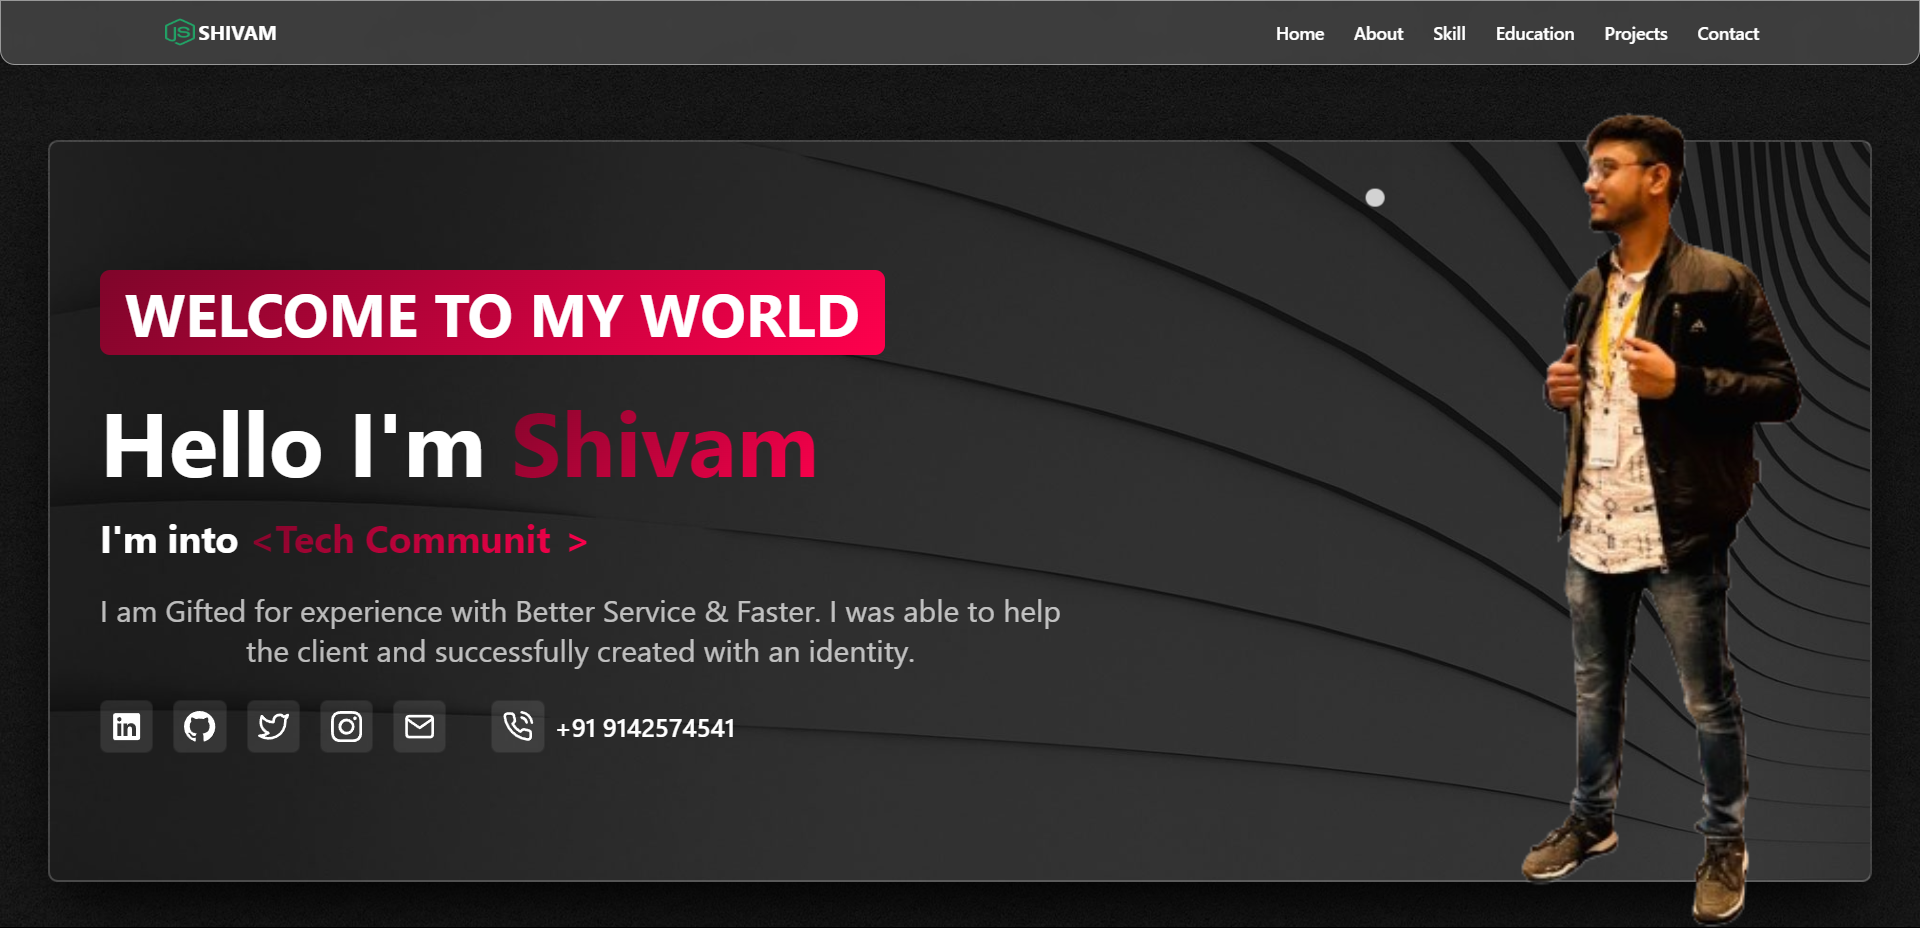
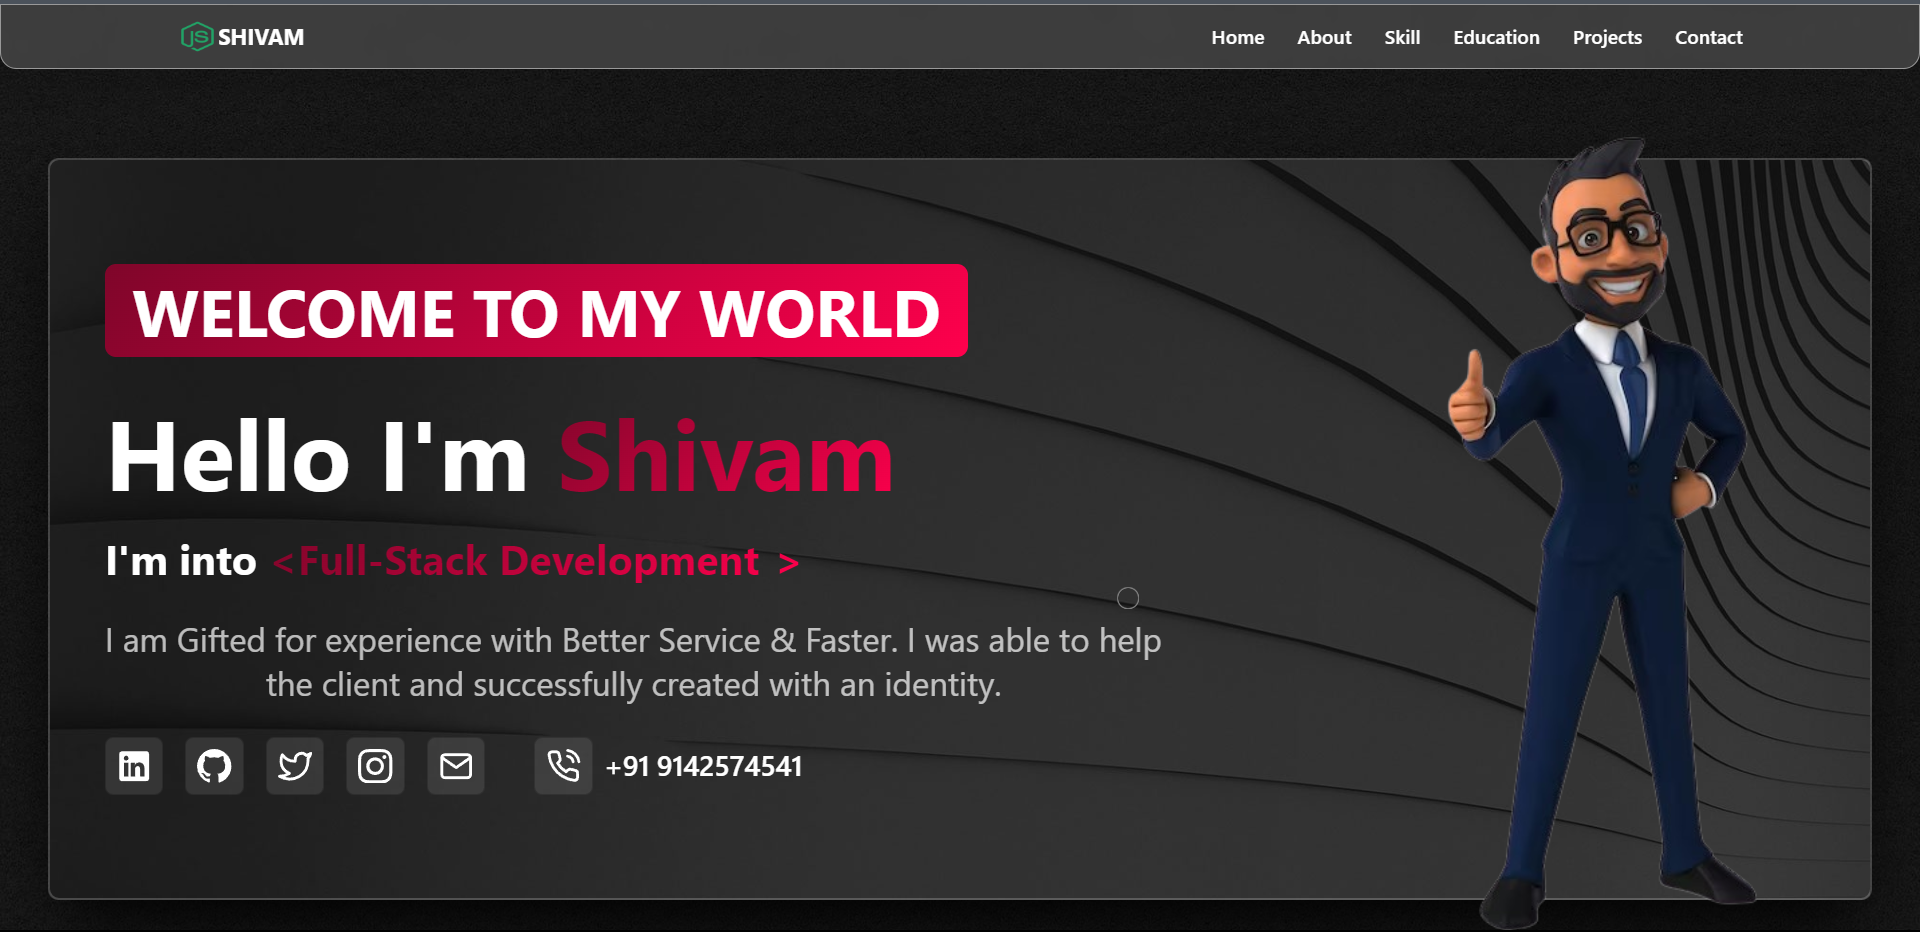
fixed bug

diff --git a/src/components/pages/Contact/Contact.jsx b/src/components/pages/Contact/Contact.jsx
@@ -66,7 +66,7 @@ const Contact = () => {
           <div className=" flex justify-center items-center xl:w-auto lg:w-auto md:w-full w-full">
             <h1
               className="heading text-center  text-white lg:text-[7vh] md:text-[7vh] text-3xl rounded-lg tracking-widest"
-              style={{ paddingBottom: "20px" }}
+              
             >
               CONTACT ME
             </h1>
@@ -75,28 +75,24 @@ const Contact = () => {
             How can I <span className="text-gradient">Help</span> you?
           </div>
           <div className="text-white/70 text-xl font-medium">
-            Lorem ipsum dolor sit amet consectetur, adipisicing elit. Qui,
-            ipsam.
+            Have a project in mind? Let's chat! Feel free to reach out for any inquiries or collaborations.
           </div>
           <div className="text-white/40 text-base ">
-            Lorem ipsum dolor sit amet consectetur, Lorem ipsum dolor sit amet
-            consectetur, adipisicing elit. Culpa, repudiandae. adipisicing elit.
-            Qui, ipsam.
-          </div>
+          Expect quick responses and dedicated support once you reach out. I'm committed to transforming ideas into impactful solutions through effective collaboration. Let's get started          </div>
           <div>
             <div className="text-white/40 flex justify-start items-center  border-b border-white/40 w-full pb-2 xl:text-lg lg:text-lg md:text-lg text-base">
-              <div className="">ADDRESS</div>
+              <div className="">ADDRESS&nbsp;</div>
               <div className="text-white/90">
                 {" "}
                 :&nbsp;&nbsp; DHANBAD, JHARKHAND
               </div>
             </div>
             <div className="text-white/40 flex justify-start items-center  border-b border-white/40 w-full pb-2 xl:text-lg lg:text-lg md:text-lg text-base">
-              <div className="">PHONE</div>
+              <div className="">PHONE &nbsp;</div>
               <div className="text-white/90"> :&nbsp; +91 9142574541</div>
             </div>
-            <div className="text-white/40 flex justify-start  items-center border-b border-white/40 w-full pb-2 xl:text-lg lg:text-lg md:text-lg text-base">
-              <div className="">EMAIL</div>
+            <div className="text-white/40 flex justify-start  items-center border-b border-white/40 w-full pb-2 xl:text-lg lg:text-lg md:text-lg text-[13.5px]">
+              <div className="">EMAIL&nbsp;</div>
               <div className="text-white/90">
                 {" "}
                 :&nbsp;&nbsp; shivamshaw9005@gmail.com
@@ -110,7 +106,7 @@ const Contact = () => {
           whileInView={{ x: 0, transition: { duration: 0.5 } }}
           className=" xl:px-8 lg:px-8 md:px-4 px-4 py-4 border-2 xl:w-[50%] lg:w-[50%] md:w-full w-full border-black/70 bg-[#242323] shadow-2xl shadow-black rounded-lg "
         >
-          <form className=" flex flex-col gap-3">
+          <form className=" flex flex-col gap-3 w-full">
             <div className="text-3xl font-semibold pb-8 text-white">
               GET FREE QOUTE NOW!
             </div>
@@ -118,7 +114,7 @@ const Contact = () => {
               <MdPerson className="text-black" />
               <input
                 type="text"
-                className="border-none bg-[#f1efef] py-2 font-semibold"
+                className="border-none bg-[#f1efef] py-2 font-semibold w-full"
                 placeholder="First name"
                 onChange={(e) => {
                   setName(e.target.value);
@@ -130,7 +126,7 @@ const Contact = () => {
               <MdPhone className="text-black" />
               <input
                 type="text"
-                className="border-none bg-[#f1efef] py-2 font-semibold"
+                className="border-none bg-[#f1efef] py-2 font-semibold w-full"
                 placeholder="Phone"
                 onChange={(e) => {
                   setPhone(e.target.value);
@@ -142,7 +138,7 @@ const Contact = () => {
               <MdMail className="text-black" />
               <input
                 type="text"
-                className="border-none bg-[#f1efef] py-2 font-semibold"
+                className="border-none bg-[#f1efef] py-2 font-semibold w-full"
                 placeholder="Mail"
                 onChange={(e) => {
                   setEmail(e.target.value);
@@ -150,11 +146,11 @@ const Contact = () => {
                 value={email}
               />
             </div>
-            <div className="flex justify-strat gap-2 items-start border-1  border-black rounded-lg px-4 py-1 bg-[#f1efef]">
-              <MdMessage className="text-black/40 mt-2" />
+            <div className="flex justify-strat gap-2 items-start border-1 w-full border-black rounded-lg px-4 py-1 bg-[#f1efef]">
+              <MdMessage className="text-black mt-2" />
               <textarea
                 type="text"
-                className="border-none bg-[#f1efef] h-28 md:w-[13vw] xl:w-[13vw] lg:w-[13vw] w-full pl-2 font-semibold "
+                className="border-none bg-[#f1efef] h-28  w-full pl-2 font-semibold "
                 placeholder="message..."
                 height={10}
                 onChange={(e) => {

diff --git a/src/components/pages/Project/Projects.jsx b/src/components/pages/Project/Projects.jsx
@@ -1,7 +1,7 @@
 import React from "react";
 import gdsc from "../../../Assests/project/gdscwebsite.png";
 import healthyme from "../../../Assests/project/healthyme.png";
-import skillsafari from "../../../Assests/project/skillSafariImg.png";
+import codegyaan from "../../../Assests/project/codegyaan.png";
 import protfolio from "../../../Assests/project/webPortfolio.png";
 import ezservice from "../../../Assests/project/ezservice.png";
 import ProjectCard from "./ProjectCard";
@@ -9,38 +9,6 @@ import project from "../../../Assests/project-management.png";
 import protube from "../../../Assests/protube.png";
 
 const cardDetails = [
-  {
-    imgSrc: healthyme,
-    heading: "Healthy-Me",
-    description:"Creating a symptom-based chatbot for quick doctor and medicine recommendations, simplifying healthcare access. Be Healthy and Wealthy!",
-    link: "https://healthy-me-me.vercel.app/",
-    gitLink : "https://github.com/shivamshaw07/Healthy-me"
-  },
-  {
-    imgSrc: skillsafari,
-    heading: "Skill safari",
-    description:
-      "EdTech platform enabling instructors to sell coding projects, empowering students to easily access and learn from a variety of educational materials.",
-    link: "https://healthy-me-me.vercel.app/",
-    gitLink : "https://github.com/shivamshaw07/skill-safari"
-  },
-  {
-    imgSrc: protube,
-    heading: "ProTube",
-    description:
-      "Creating a symptom-based chatbot for quick doctor and medicine recommendations, simplifying healthcare access.  Be Healthy and Wealthy!",
-    link: "https://protube-one.vercel.app/",
-    gitLink: "https://github.com/shivamshaw07/ProTube",
-  },
-
-  {
-    imgSrc: protfolio,
-    heading: "My Portfolio Website",
-    description:
-      "Welcome to my personal portfolio website! Explore by scrolling down – you're in the right place to discover more about me and my work.",
-    link: "https://healthy-me-me.vercel.app/",
-    gitLink: "https://github.com/shivamshaw07/Web-Portfolio"
-  },
   {
     imgSrc: ezservice,
     heading: "EZ-Service Hub",
@@ -50,10 +18,41 @@ const cardDetails = [
     gitLink : "https://github.com/shivamshaw07/EZService-Hub"
   },
   {
+    imgSrc: protfolio,
+    heading: "My Portfolio Website",
+    description:
+      "Welcome to my personal portfolio website! Explore by scrolling down – you're in the right place to discover more about me and my work.",
+    link: "https://healthy-me-me.vercel.app/",
+    gitLink: "https://github.com/shivamshaw07/Web-Portfolio"
+  },
+  {
+    imgSrc: protube,
+    heading: "ProTube",
+    description:
+      "Created a YouTube clone project focused on mastering API integration. Learn API skills through practical application and tutorials",
+    link: "https://protube-one.vercel.app/",
+    gitLink: "https://github.com/shivamshaw07/ProTube",
+  },
+  {
+    imgSrc: codegyaan,
+    heading: "CodeGyaan",
+    description:
+      "EdTech platform enabling instructors to sell courses, empowering students to access and learn from a variety of educational materials.",
+    link: "https://code-gyaan.vercel.app/",
+    gitLink : "https://github.com/shivamshaw07/skill-safari"
+  },
+  {
+    imgSrc: healthyme,
+    heading: "Healthy-Me",
+    description:"Symptom-based chatbot for quick doctor and medicine recommendations, simplifying healthcare access. Be Healthy and Wealthy!",
+    link: "https://healthy-me-me.vercel.app/",
+    gitLink : "https://github.com/shivamshaw07/Healthy-me"
+  },
+  {
     imgSrc: gdsc,
     heading: "GDSC AEC Web-React",
     description:
-      "GDSC AEC team project: showcasing our team, past successful events, and upcoming initiatives to foster community engagement and innovation.",
+      "GDSC AEC team project: showcasing our team, past events, and upcoming initiatives to foster community engagement and innovation.",
     link: "https://gdscaec.club/",
     gitLink : "https://github.com/gdsc-aec-india/gdsc-aec-react"
   },

diff --git a/src/components/pages/Home/Home.jsx b/src/components/pages/Home/Home.jsx
@@ -1,5 +1,5 @@
 import Typewriter from "typewriter-effect";
-import pic from "../../../Assests/IMG_20231224_094829_777-removebg-preview.png";
+import pic from "../../../Assests/cartoonHome.png";
 import Links from "../Links/Links";
 import "./home.css";
 import Tilt from "react-vanilla-tilt";
@@ -30,7 +30,7 @@ const Home = () => {
           initial={{opacity:0,y:-40}}
           whileInView={{opacity:1,y:0}}
           transition = {{duration:.4}} className="xl:text-7xl lg:text-7xl md:text-6xl text-6xl text-center font-bold text-[#fff]">
-            Hello I'm <span className="text-gradient">Shivam</span>
+            Hello I'm <span className="text-gradient">Shivam</span>.
           </motion.h1>
           <div className="xl:text-3xl lg:text-3xl md:text-2xl text-[1.1rem]  font-bold flex">
             <h1 className="text-[#fff]">I'm into&nbsp;</h1>
@@ -61,12 +61,12 @@ const Home = () => {
           </div>
         </motion.div>
         <div
-          className="w-auto h-full xl:absolute lg:absolute md:static static z-20 right-12 flex items-center "
+          className="w-auto h-full xl:absolute lg:absolute md:static static z-20 right-28 flex items-center "
         >
             <img
               src={pic}
               alt="pic"
-              className=" h-[708px]  w-auto"
+              className=" h-[600px]  w-auto"
             />
           {/* <Tilt style={{ borderRadius: "0%" }}>
           </Tilt> */}

diff --git a/src/components/NavBar/NavBar.jsx b/src/components/NavBar/NavBar.jsx
@@ -31,8 +31,8 @@ const NavBar = () => {
       className="h-[7vh] w-[100%]  z-50 py-2 lg:px-[8rem] md:px-[8rem] px-[5vw] flex justify-between  fixed top-0 items-center shadow-md rounded-b-xl"
     >
       <div className="flex justify-center items-center">
+        <h1 className="font-bold text-[#fff]">SHIVAM.</h1>
         <img src={Logo} alt="" className="h-6" />
-        <h1 className="font-bold text-[#fff]">SHIVAM</h1>
       </div>
       <motion.div className=" xl:block lg:block md:block hidden">
         <ul className="flex justify-center items-center gap-6 text-[.82em]">
